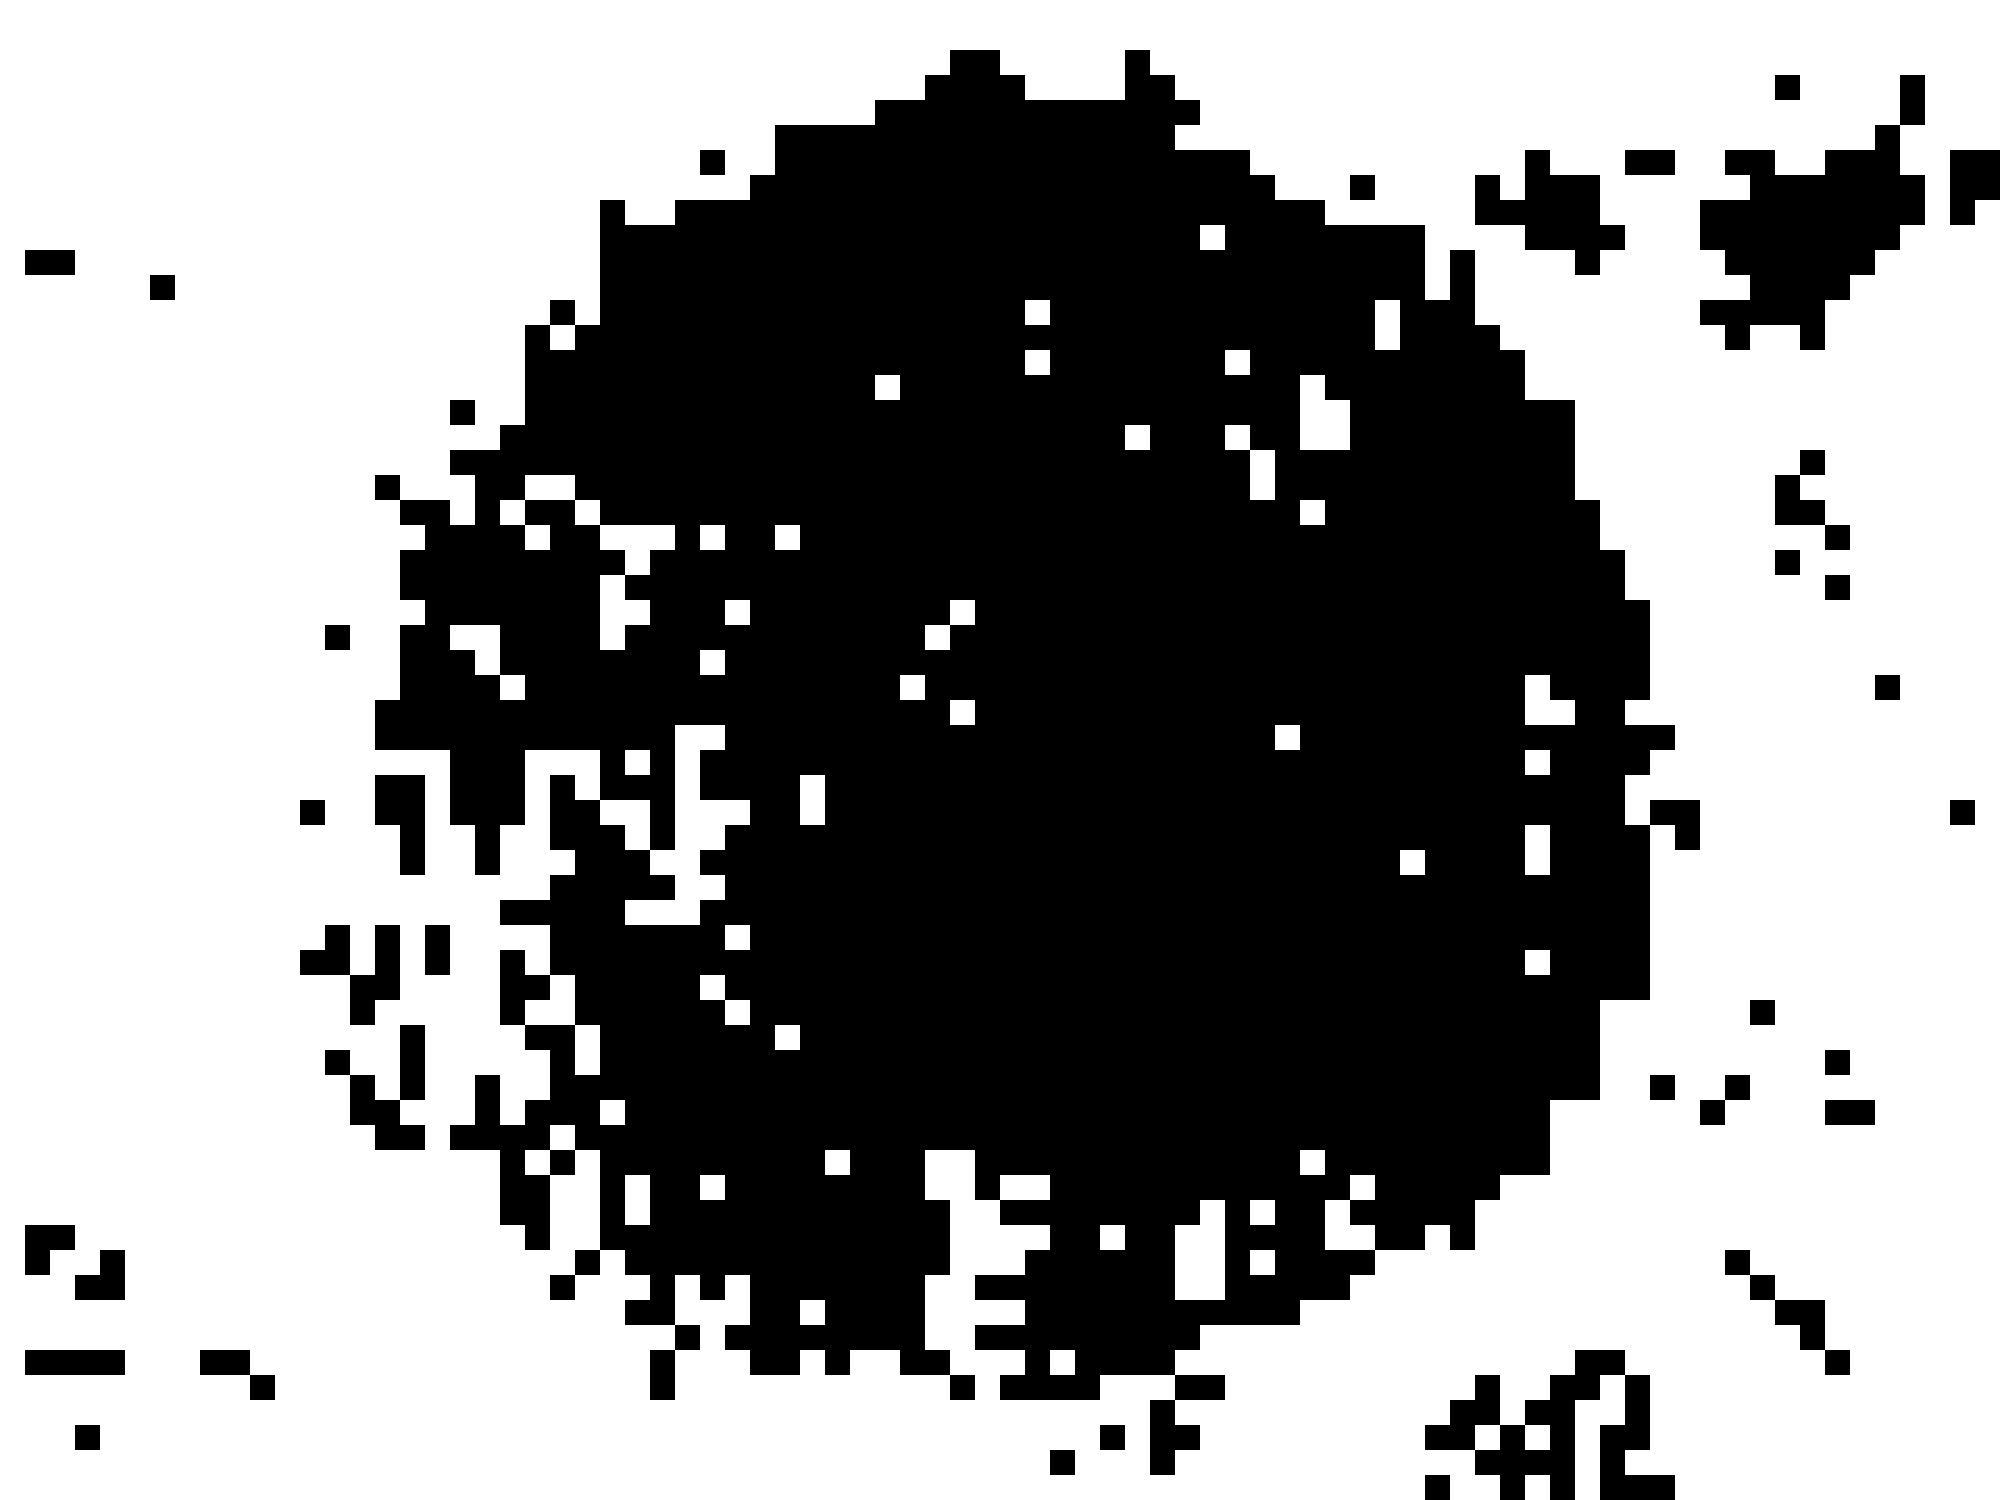
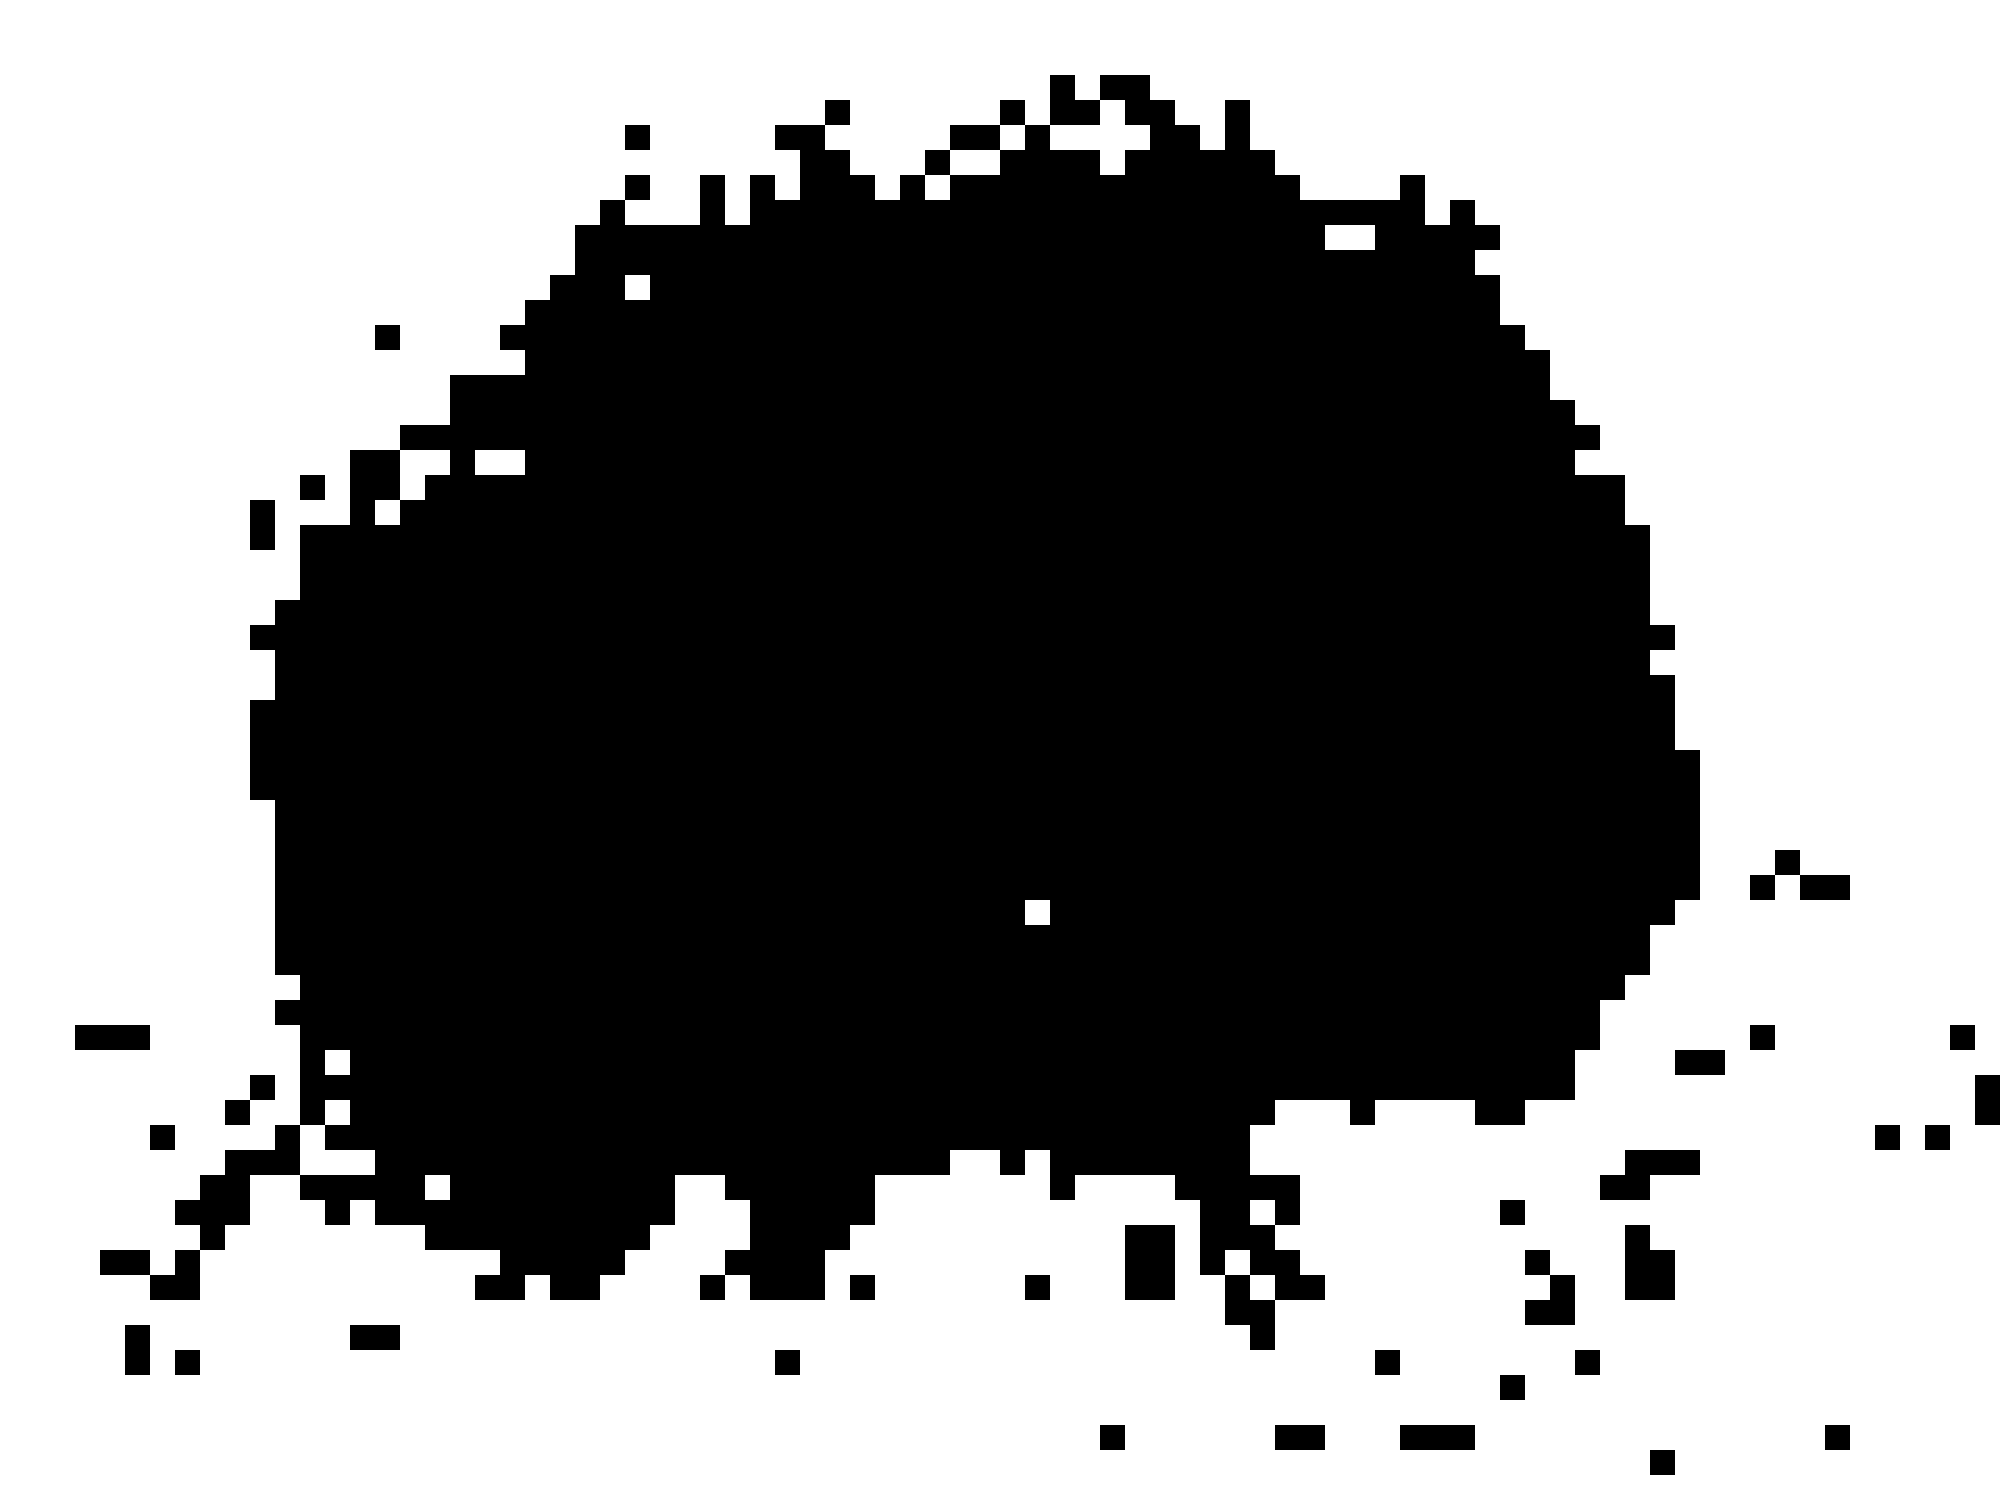
comments plus vars adjustment

diff --git a/main.py b/main.py
@@ -5,10 +5,21 @@ import matplotlib.pyplot as plt
 import cv2
 from scipy.ndimage import gaussian_filter
 
+### Tree masking vars
 MASK_MEDIAN_BLUR_SIZE = 3
-BOX_RESOLUTION = 25
+BOX_SIZE = 25
 DETECTION_RATIO = 4
 
+### Template matching vars
+TEMPLATE_SIZE = 850
+TEMPLATE_SHAPE = (TEMPLATE_SIZE, TEMPLATE_SIZE)
+TEMPLATE_CENTER = tuple(int(x/2) for x in TEMPLATE_SHAPE)
+
+### Preprocessing vars
+NLMEANS_STRENGTH = 9
+SHARPEN_STRENGTH = 2
+
+### Fills holes by taking the inverse of the mask and drawing/filling contours (and inverting back).
 def fill_holes_bw(im):
     inv = cv2.bitwise_not(im)
     contours, _ = cv2.findContours(inv,cv2.RETR_CCOMP,cv2.CHAIN_APPROX_SIMPLE)
@@ -16,10 +27,12 @@ def fill_holes_bw(im):
         cv2.drawContours(inv,[contour],0,255,-1)
     return cv2.bitwise_not(inv)
 
+### Creates an eroding kernel/structure element (cross shaped, see ./doc/erode_kernel.png) according to the BOX_SIZE. 
+### Then the images gets eroded by using this kernel.
 def erode(im):
-    erode_kernel = np.zeros((BOX_RESOLUTION*3,BOX_RESOLUTION*3),np.uint8)
-    erode_kernel[BOX_RESOLUTION:2*BOX_RESOLUTION+1, ::] = 255
-    erode_kernel[::, BOX_RESOLUTION:2*BOX_RESOLUTION+1] = 255
+    erode_kernel = np.zeros((BOX_SIZE*3,BOX_SIZE*3),np.uint8)
+    erode_kernel[BOX_SIZE:2*BOX_SIZE+1, ::] = 255
+    erode_kernel[::, BOX_SIZE:2*BOX_SIZE+1] = 255
     
     cv2.imwrite('./doc/erode_kernel.png', erode_kernel)
 
@@ -28,21 +41,22 @@ def erode(im):
 ### Create a black/white mask to isolate the tree in the image.
 ### Canny Edge Detection is used on the original image (filtered a bit with median filter) to draw all edges.
 ### The program assumes that there are more sharp edges on the tree than in the background (manual blurring of the background in the input image can help)
-### In a grid with the size of BOX_RESOLUTION all edge-pixels are counted. Is the count over a certain threshold (BOX_RESOLUTION^2 / DETECTION_RATIO)
+### In a grid with the size of BOX_SIZE all edge-pixels are counted. Is the count over a certain threshold (BOX_SIZE^2 / DETECTION_RATIO)
 ### the grid gets marked as containing the tree.
 ### Afterwards all holes in the mask get filled and some stray boxes on the edges get eroded.
 def create_tree_mask(im):
     mask = cv2.Canny(cv2.medianBlur(im, MASK_MEDIAN_BLUR_SIZE),50,150)
-    for y in range(BOX_RESOLUTION,mask.shape[0]+1,BOX_RESOLUTION):
-        for x in range(BOX_RESOLUTION,mask.shape[1]+1,BOX_RESOLUTION):
-            patch = mask[y-BOX_RESOLUTION:y,x-BOX_RESOLUTION:x]
-            if np.sum(patch == 255) > int((BOX_RESOLUTION ** 2) / DETECTION_RATIO):
+    for y in range(BOX_SIZE,mask.shape[0]+1,BOX_SIZE):
+        for x in range(BOX_SIZE,mask.shape[1]+1,BOX_SIZE):
+            patch = mask[y-BOX_SIZE:y,x-BOX_SIZE:x]
+            if np.sum(patch == 255) > int((BOX_SIZE ** 2) / DETECTION_RATIO):
                 # cv2.rectangle(map_filter, (x-50,y-50),(x,y),(255,0,0), 2)
-                mask[y-BOX_RESOLUTION:y,x-BOX_RESOLUTION:x] = 0
+                mask[y-BOX_SIZE:y,x-BOX_SIZE:x] = 0
             else:
-                mask[y-BOX_RESOLUTION:y,x-BOX_RESOLUTION:x] = 255
+                mask[y-BOX_SIZE:y,x-BOX_SIZE:x] = 255
     cv2.imwrite('./doc/mask_before_filling.png', mask)
     
+    # invert mask again for the bitwise AND (line 142)
     mask = cv2.bitwise_not(fill_holes_bw(mask))
     cv2.imwrite('./doc/mask_before_erode.png', mask)
      
@@ -51,42 +65,48 @@ def create_tree_mask(im):
 
     return mask
 
+### Approximates the center of the masked edges. Takes an imaged preprocessed with the Canny edge detector and masked via create_tree_mask() as input.
+### Creates a template filled with rings with increasing radii. Creates an additional mask for the template matching. See doc/sqdiff_xxx.png for visualization.
+### Uses normed cross-correlation for template matching https://docs.opencv.org/4.x/df/dfb/group__imgproc__object.html#gga3a7850640f1fe1f58fe91a2d7583695daf9c3ab9296f597ea71f056399a5831da.
+### cv2.minMaxLoc() computes the maximum (among other) of the template matching function. To get to the center, the center coordinates of the template circle get added to the max-coordinates. 
+### In ./doc/matched_template.png the matched template boundaries are drawn for visualization.
 def approx_center(im):
-    TEMPLATE_SIZE = (800,800)
-    TEMPLATE_CENTER = tuple(int(x/2) for x in TEMPLATE_SIZE)
-
-    circles = np.zeros(TEMPLATE_SIZE,np.uint8)
-    for radius in range(25,400,5):
+    circles = np.zeros(TEMPLATE_SHAPE,np.uint8)
+    for radius in range(25,int(TEMPLATE_SIZE/2)+1,5):
         cv2.circle(circles, TEMPLATE_CENTER, radius=radius, color=255, thickness=1)
     cv2.imwrite('./doc/sqdiff_template.png', circles)
     
-    mask = np.zeros(TEMPLATE_SIZE,np.uint8)
-    cv2.circle(mask, TEMPLATE_CENTER, radius=300, color=255, thickness=250)
+    mask = np.zeros(TEMPLATE_SHAPE,np.uint8)
+    cv2.circle(mask, TEMPLATE_CENTER, radius=int(TEMPLATE_SIZE/3), color=255, thickness=int(TEMPLATE_SIZE/3))
     cv2.imwrite('./doc/sqdiff_mask.png', mask)
     
-    res = cv2.matchTemplate(im, circles, cv2.TM_SQDIFF,mask=mask)
+    res = cv2.matchTemplate(im, circles, cv2.TM_CCORR_NORMED,mask=mask)
     (_, _, _, max_loc) = cv2.minMaxLoc(res)
     (x, y) = max_loc
     x += TEMPLATE_CENTER[0]
     y += TEMPLATE_CENTER[1]
     
     im_tmp = im.copy()
-    cv2.rectangle(im_tmp,max_loc,(max_loc[0]+800,max_loc[1]+800),color=255,thickness=2)
+    cv2.rectangle(im_tmp,max_loc,(max_loc[0]+TEMPLATE_SIZE,max_loc[1]+TEMPLATE_SIZE),color=255,thickness=2)
     cv2.imwrite('./doc/matched_template.png', im_tmp)
     
     return (x,y)
 
+### Count the rings in a patch of the masked Canny edge detection. I assume that for every ring on the three should be one edge.
 def count_rings(patch):
     return np.sum([1 for x in patch if x == 255])
 
+### Approximate the age of the tree. Takes the masked Canny edge detection and the calculated center point. 
+### The deviates from the center by +-20 pixels on both axis and takes the average of all to mitigate some irregularities.
+### See ./doc/counting_cross_section_edges_and_masked.png for visualization of the cross-sections, along which the program counts the edges/rings.
 def approx_age(im, center):
     total = 0
     c = 0
-    for x in range(-20,20):
-        patch_x0 = im[0:center[0],center[1]+x]
-        patch_y0 = im[center[0]+x,0:center[1]]
-        patch_x1 = im[center[0]:2000,center[1]+x]
-        patch_y1 = im[center[0]+x,center[1]:1500]
+    for deviation in range(-20,20):
+        patch_x0 = im[0:center[0], center[1]+deviation]
+        patch_y0 = im[center[0]+deviation, 0:center[1]]
+        patch_x1 = im[center[0]:2000, center[1]+deviation]
+        patch_y1 = im[center[0]+deviation, center[1]:1500]
 
         total += count_rings(patch_x0)
         total += count_rings(patch_y0)
@@ -98,29 +118,24 @@ def approx_age(im, center):
 
     cv2.line(im,(0,center[1]),(2000,center[1]),color=255, thickness=3)
     cv2.line(im,(center[0],0),(center[0],1500),color=255, thickness=3)
-    
     cv2.imwrite('./doc/counting_cross_section_edges_and_masked.png', im)
-
-    # plt.figure(figsize=(16,12))
-    # plt.imshow((im), cmap="gray")
-    # plt.show()
 
     return age
 
 
 
 def main():
-    im = cv2.resize(cv2.imread("input4.tif"), (2000,1500), interpolation=cv2.INTER_LANCZOS4)
+    im = cv2.resize(cv2.imread("input.tif"), (2000,1500), interpolation=cv2.INTER_LANCZOS4)
 
     filtered = cv2.medianBlur(im, 5)
     cv2.imwrite('./doc/median_filtered.png', filtered)
-    denoised = cv2.fastNlMeansDenoisingColored(filtered, h=8, templateWindowSize=5,searchWindowSize=15)
+    denoised = cv2.fastNlMeansDenoisingColored(filtered, h=NLMEANS_STRENGTH, templateWindowSize=5,searchWindowSize=15)
     cv2.imwrite('./doc/nlmeans_denoised.png', denoised)
     unsharp_mask = denoised - gaussian_filter(denoised, sigma=2)
-    sharpened = denoised + 1 * unsharp_mask
+    sharpened = denoised + SHARPEN_STRENGTH * unsharp_mask
     cv2.imwrite('./doc/sharpened.png', sharpened)
 
-    edges = cv2.Canny(sharpened,50,125)
+    edges = cv2.Canny(sharpened,75,150)
     cv2.imwrite('./doc/canny_edges.png', edges)
 
     tree_mask = create_tree_mask(im)
@@ -132,8 +147,8 @@ def main():
     age = approx_age(tree_edges, center)
     print(f"Estimated age: {age} years")
     
-    cv2.line(tree,(0,center[1]),(2000,center[1]),color=255, thickness=1)
-    cv2.line(tree,(center[0],0),(center[0],1500),color=255, thickness=1)
+    cv2.line(tree,(0,center[1]),(2000,center[1]),color=255, thickness=3)
+    cv2.line(tree,(center[0],0),(center[0],1500),color=255, thickness=3)
     cv2.imwrite('./doc/original_with_mask_and_cross_section.png', tree)
 
 if __name__ == "__main__":
